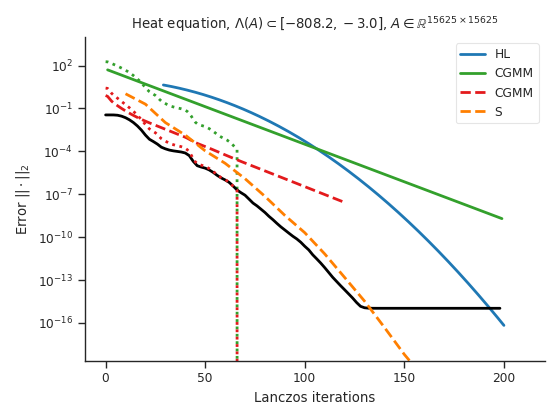
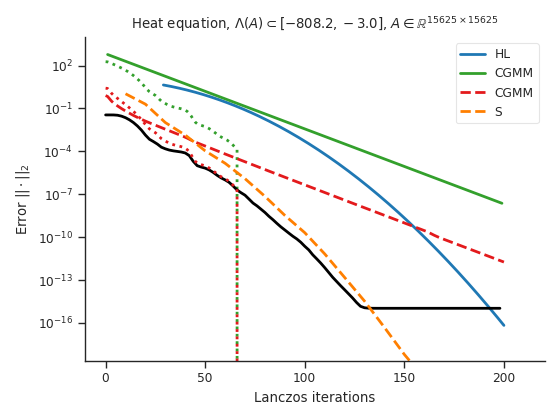
correct relative cg correctly

diff --git a/experiments/bounds_exp_heat_visualize.py b/experiments/bounds_exp_heat_visualize.py
@@ -12,6 +12,7 @@ if __name__ == '__main__':
     ax.plot(plot_store2["Lanczos" + " ids"], plot_store2["Lanczos" + " errors"], color='black')
     # lanc_plot = ax.plot(plot_storeA["Lanczos" + " ids"], plot_storeA["Lanczos" + " errors"], color='black')
     exact_normA = plot_storeA["exact norm"]
+    lin_error_0 = plot_storeA["lin_error_0"]
     evals = plot_store2["evals"]
     i = 0
     ax.plot(plot_store2["HL" + " ms"], plot_store2["HL" + " bounds"], label="HL", linestyle="-", c=colors[i])
@@ -19,7 +20,7 @@ if __name__ == '__main__':
     i += 1
     name = f"CGMM prio"
     ax.plot(plot_storeA["CGMM prio" + " ms"],
-            exact_normA * np.sqrt(max(np.abs(evals))) * plot_storeA["CGMM prio" + " bounds"], label="CGMM",
+            lin_error_0 * np.sqrt(max(np.abs(evals))) * plot_storeA["CGMM prio" + " bounds"], label="CGMM",
             linestyle="-", c=colors[i])
 
     ax.plot(plot_store2["CGMM prio nk" + " ms"], plot_store2["CGMM prio nk" + " bounds"], linestyle=":",
@@ -29,7 +30,7 @@ if __name__ == '__main__':
     ax.plot(plot_store2["CGMM post nk" + " ms"], plot_store2["CGMM post nk" + " bounds"], linestyle=":",
             c=colors.get(i, False))
     ax.plot(plot_storeA["CGMM post" + " ms"],
-            np.sqrt(max(np.abs(evals))) * exact_normA * plot_storeA["CGMM post" + " bounds"], label="CGMM",
+            np.sqrt(max(np.abs(evals))) * lin_error_0 * plot_storeA["CGMM post" + " bounds"], label="CGMM",
             linestyle="--", c=colors[i])
 
     i += 1

diff --git a/experiments/bounds_exp_heat.py b/experiments/bounds_exp_heat.py
@@ -98,6 +98,10 @@ if __name__ == "__main__":
         exact_norm = 1
         print(f"Exact norm: {norm(exact)}")
     plot_store["exact norm"] = exact_norm
+    lin_error_0 = A_norm(scipy.sparse.linalg.spsolve(t * A - w * scipy.sparse.eye(*A.shape), u0))
+    print(f"Linear error 0: {lin_error_0}")
+    plot_store["lin_error_0"] = lin_error_0
+
     fig, ax = get_fig_ax()
     colors = Colors()
     i = 0
@@ -112,7 +116,7 @@ if __name__ == "__main__":
     name = f"CGMM prio"
     plot_store[name + " bounds"] = bounds
     plot_store[name + " ms"] = ms
-    ax.plot(ms, exact_norm * bounds, label="CGMM", linestyle="-", c=colors[i])
+    ax.plot(ms, lin_error_0 * bounds, label="CGMM", linestyle="-", c=colors[i])
 
     ms, bounds = chen_musco_no_kappa(t * A, u0.flatten(), min(evals), max(evals), w=w, n=bound_n, f=func_scalar, center=center,
                             radius=radius, norm=norm)
